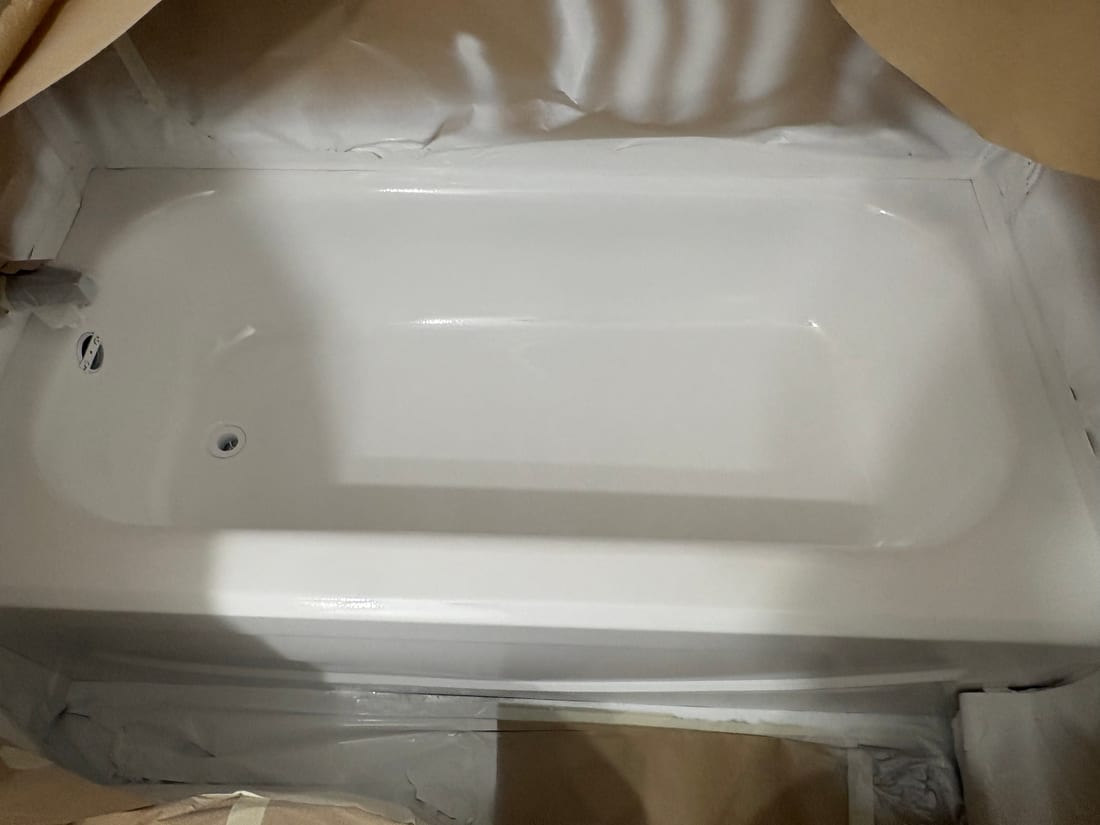
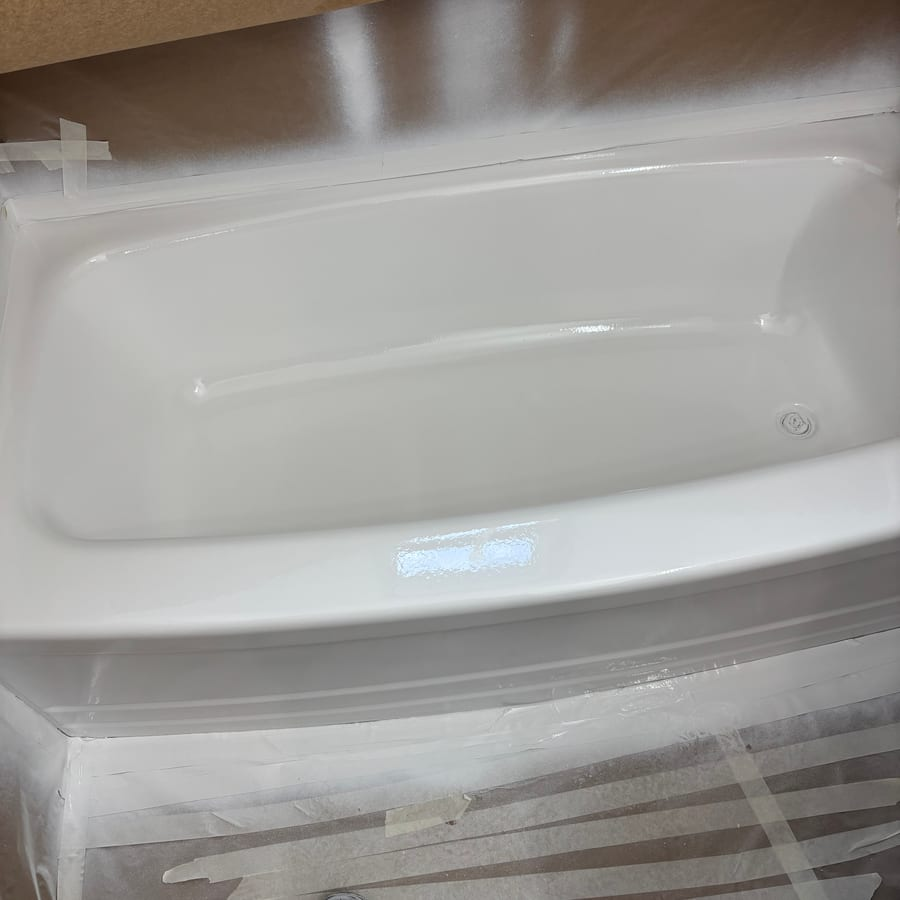
Galerie enrichie: 9 vraies photos de réalisations optimisées pour le web

diff --git a/index.html b/index.html
@@ -534,9 +534,15 @@
       <p class="lead">Des baignoires comme neuves, réalisées directement chez nos clients de la région. Rien ne convainc mieux qu'un vrai avant/après.</p>
     </div>
     <div class="grid-3" style="margin-top:48px">
-      <div class="ba" style="cursor:default;aspect-ratio:1/1"><img src="img/realisation-1.jpg" alt="Réémaillage de baignoire terminé, fini blanc éclatant — Rivière-du-Loup" loading="lazy" style="width:100%;height:100%;object-fit:cover"></div>
-      <div class="ba" style="cursor:default;aspect-ratio:1/1"><img src="img/realisation-2.jpg" alt="Baignoire réémaillée comme neuve — La Pocatière, KRTB" loading="lazy" style="width:100%;height:100%;object-fit:cover"></div>
+      <div class="ba" style="cursor:default;aspect-ratio:1/1"><img src="img/realisation-1.jpg" alt="Réémaillage de baignoire terminé, fini blanc éclatant comme neuf — Rivière-du-Loup" loading="lazy" style="width:100%;height:100%;object-fit:cover"></div>
+      <div class="ba" style="cursor:default;aspect-ratio:1/1"><img src="img/realisation-2.jpg" alt="Baignoire réémaillée comme neuve, fini lustré durable — La Pocatière, KRTB" loading="lazy" style="width:100%;height:100%;object-fit:cover"></div>
       <div class="ba" style="cursor:default;aspect-ratio:1/1"><img src="img/realisation-3.jpg" alt="Réémaillage de baignoire, finition professionnelle — Montmagny, Côte-du-Sud" loading="lazy" style="width:100%;height:100%;object-fit:cover"></div>
+      <div class="ba" style="cursor:default;aspect-ratio:1/1"><img src="img/realisation-4.jpg" alt="Baignoire réémaillée, surface lisse et blanche restaurée — Saint-Pascal, Kamouraska" loading="lazy" style="width:100%;height:100%;object-fit:cover"></div>
+      <div class="ba" style="cursor:default;aspect-ratio:1/1"><img src="img/realisation-5.jpg" alt="Bain réémaillé au fini éclatant, résultat comme neuf — Kamouraska" loading="lazy" style="width:100%;height:100%;object-fit:cover"></div>
+      <div class="ba" style="cursor:default;aspect-ratio:1/1"><img src="img/realisation-6.jpg" alt="Réémaillage de baignoire, revêtement blanc uniforme — Trois-Pistoles, Bas-Saint-Laurent" loading="lazy" style="width:100%;height:100%;object-fit:cover"></div>
+      <div class="ba" style="cursor:default;aspect-ratio:1/1"><img src="img/realisation-7.jpg" alt="Fini de baignoire réémaillée, lustre profond et lisse — L'Islet" loading="lazy" style="width:100%;height:100%;object-fit:cover"></div>
+      <div class="ba" style="cursor:default;aspect-ratio:1/1"><img src="img/realisation-8.jpg" alt="Baignoire remise à neuf par réémaillage professionnel — Rivière-du-Loup et environs" loading="lazy" style="width:100%;height:100%;object-fit:cover"></div>
+      <div class="ba" style="cursor:default;aspect-ratio:1/1"><img src="img/realisation-9.jpg" alt="Réémaillage de baignoire, contraste éclatant avec la céramique — Montmagny" loading="lazy" style="width:100%;height:100%;object-fit:cover"></div>
     </div>
   </div>
 </section>